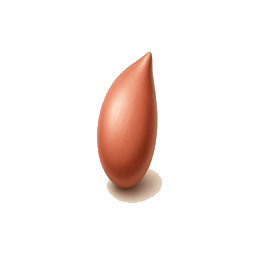
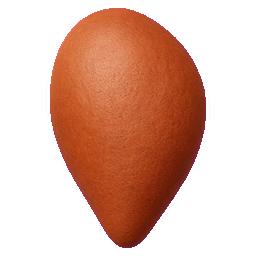
Fold Design WF T1–T3 alphas and lock HUD to one line.
Take chroma-keyed Seed/Sprout/Bud from cursor/wf-seed-alpha-recut
and punch leftover magenta so Sprout is not a hot-pink plate. Remove
drag LastFeedback entirely (no Moved. toast). Restore Charges 30/30
as a wide one-line label in the dock–board gap; keep 100/100 on the
energy bar with Overflow.

diff --git a/Assets/Grove/Unity/DragMergeController.cs b/Assets/Grove/Unity/DragMergeController.cs
@@ -25,7 +25,6 @@ namespace Grove.Unity
         public bool IsDragging => _dragging;
         public bool IsBusy => _busy;
         public DragResult? LastResult { get; private set; }
-        public string LastFeedback { get; private set; } = "";
 
         public void Bind(MergeSession session, BoardView view)
         {
@@ -96,7 +95,6 @@ namespace Grove.Unity
             View.HiddenCell = cell;
             View.Refresh();
             View.ShowGhost(stack, world);
-            LastFeedback = "";
         }
 
         private IEnumerator EndDrag()
@@ -111,9 +109,8 @@ namespace Grove.Unity
                 : new DragResult.SnapBack("out-of-bounds");
             LastResult = result;
 
-            if (result is DragResult.SnapBack snap)
+            if (result is DragResult.SnapBack)
             {
-                LastFeedback = SnapMessage(snap.Reason);
                 var fromWorld = PointerWorld();
                 var dest = View.CellToWorld(_from);
                 var t = 0f;
@@ -126,7 +123,7 @@ namespace Grove.Unity
                     yield return null;
                 }
             }
-            else if (result is DragResult.Applied applied)
+            else if (result is DragResult.Applied)
             {
                 var dest = View.CellToWorld(hasCell ? to : _from);
                 var fromWorld = PointerWorld();
@@ -139,9 +136,6 @@ namespace Grove.Unity
                     yield return null;
                 }
 
-                LastFeedback = applied.Merge is { } merge
-                    ? $"Merged {merge.Consumed} → {merge.Produced}!"
-                    : "";
             }
 
             View.HideGhost();
@@ -154,17 +148,6 @@ namespace Grove.Unity
 
             _busy = false;
         }
-
-        private static string SnapMessage(string reason) => reason switch
-        {
-            "type-mismatch" => "Snap back — those pieces don't match.",
-            "no-recipe" => "Snap back — this tier doesn't merge further.",
-            "overstack" => "Snap back — too many on that cell.",
-            "same-cell" => "Snap back — drop on another cell.",
-            "empty-source" => "Snap back — nothing to drag.",
-            "out-of-bounds" => "Snap back — drop on the board.",
-            _ => "Snap back — " + reason
-        };
 
         private Vector3 PointerWorld()
         {

diff --git a/tests/Grove.Domain.Tests/PlayLayoutTests.cs b/tests/Grove.Domain.Tests/PlayLayoutTests.cs
@@ -91,23 +91,23 @@ public sealed class PlayLayoutTests
     }
 
     [Fact]
-    public void Energy_readout_fits_100_100_on_one_line_at_1080_and_crate_charges_are_off_play()
+    public void Energy_and_charges_readouts_fit_one_line_at_1080()
     {
         var energyW = (PlayLayout.EnergyLabel.XMax - PlayLayout.EnergyLabel.XMin) * PlayLayout.ReferenceWidth;
-        Assert.True(energyW >= 220f, energyW.ToString("0.0"));
+        var crateW = (PlayLayout.CrateLabel.XMax - PlayLayout.CrateLabel.XMin) * PlayLayout.ReferenceWidth;
+        Assert.True(energyW >= PlayLayout.HudNumberMinWidthPx, energyW.ToString("0.0"));
+        Assert.True(crateW >= PlayLayout.CrateChargesMinWidthPx, crateW.ToString("0.0"));
         Assert.True(PlayLayout.EnergyLabel.XMin >= PlayLayout.EnergyBar.XMin - 0.0001f);
         Assert.True(PlayLayout.EnergyLabel.XMax <= PlayLayout.EnergyBar.XMax + 0.0001f);
         Assert.True(PlayLayout.EnergyLabel.XMax <= PlayLayout.CoinIcon.XMin + 0.0001f);
         Assert.False(PlayLayout.EnergyLabel.Overlaps(PlayLayout.CoinIcon));
         Assert.True(PlayLayout.EnergyLabel.XMax < 0.50f);
-        foreach (var rect in PlayLayout.OccludingHud())
-        {
-            Assert.False(
-                Math.Abs(rect.XMin - PlayLayout.CrateLabel.XMin) < 0.0001f
-                && Math.Abs(rect.YMin - PlayLayout.CrateLabel.YMin) < 0.0001f
-                && Math.Abs(rect.XMax - PlayLayout.CrateLabel.XMax) < 0.0001f
-                && Math.Abs(rect.YMax - PlayLayout.CrateLabel.YMax) < 0.0001f);
-        }
+        Assert.False(PlayLayout.CrateLabel.OverlapsPlayfield());
+        Assert.True(PlayLayout.MeetsMinHudGap(PlayLayout.CrateLabel));
+        Assert.False(PlayLayout.CrateLabel.Overlaps(PlayLayout.OrderTray));
+        Assert.Contains(PlayLayout.OccludingHud(), r =>
+            Math.Abs(r.XMin - PlayLayout.CrateLabel.XMin) < 0.0001f
+            && Math.Abs(r.YMin - PlayLayout.CrateLabel.YMin) < 0.0001f);
     }
 
     [Fact]

diff --git a/tests/Grove.Domain.Tests/ArtManifestTests.cs b/tests/Grove.Domain.Tests/ArtManifestTests.cs
@@ -49,11 +49,11 @@ public sealed class ArtManifestTests
     {
         var manifest = ArtManifest.LoadDefault();
         var dir = ArtManifest.ResolveDirectory();
-        // 9e84a1a refresh: Seed ~41KB (old stub ~2.8KB), Maya Happy ~348KB (old ~5KB).
+        // Seed/Bud stay large. T2 after chroma-key punch is a thin silhouette (~7KB), not the old 2.8KB stub.
         var minBytes = new Dictionary<string, long>(StringComparer.Ordinal)
         {
             ["WF_T01_Seed"] = 20000,
-            ["WF_T02_Sprout"] = 20000,
+            ["WF_T02_Sprout"] = 5000,
             ["WF_T03_Bud"] = 20000,
             ["WF_T04_Wildflower"] = 20000,
             ["WF_T05_Bouquet"] = 20000,
@@ -155,12 +155,23 @@ public sealed class ArtManifestTests
                 }
             }
 
-            Assert.True(opaque > width * height / 40, stub + " punched the object away");
+            Assert.True(opaque > width * height / 80, stub + " punched the object away");
             if (asset.Category == "piece")
             {
                 Assert.True(opaque < width * height / 2, stub + " is still a filled cream plate");
                 Assert.True(StudioPlatePunch.TryOpaqueRect(rgba, width, height, 16, 0, out _, out _, out var rw, out var rh), stub);
                 Assert.True(rw * rh < width * height * 3 / 4, stub + " opaque bounds still fill the canvas plate");
+                var magenta = 0;
+                for (var i = 0; i < width * height; i++)
+                {
+                    if (rgba[i * 4 + 3] >= 8
+                        && StudioPlatePunch.IsMagentaKey(rgba[i * 4], rgba[i * 4 + 1], rgba[i * 4 + 2]))
+                    {
+                        magenta++;
+                    }
+                }
+
+                Assert.True(magenta < width * height / 200, stub + " still has a magenta chroma plate (" + magenta + " px)");
             }
         }
     }

diff --git a/Assets/Grove/Runtime/Layout/PlayLayout.cs b/Assets/Grove/Runtime/Layout/PlayLayout.cs
@@ -85,6 +85,9 @@ namespace Grove.Domain.Layout
         public const int TypeTeach = 30;
         public const int TypeTeachRing = 24;
         public const int TypeCrate = 28;
+        /// <summary>"Charges 30/30" at TypeCrate Bold needs ~240px @1080 to stay one line.</summary>
+        public const float HudNumberMinWidthPx = 220f;
+        public const float CrateChargesMinWidthPx = 240f;
         public const int TypeSplash = 36;
         public const int TypeToast = 28;
         public const int TypeCoin = 34;
@@ -148,8 +151,11 @@ namespace Grove.Domain.Layout
         public static readonly NormRect Store = new NormRect(0.04f, 0.012f, 0.20f, 0.108f);
 
         public static readonly NormRect Crate = new NormRect(0.025f, 0.48f, 0.165f, 0.655f);
-        /// <summary>Unused on Play — charge copy wrapped mid-word in this sliver.</summary>
-        public static readonly NormRect CrateLabel = new NormRect(0.025f, 0.658f, 0.165f, 0.715f);
+        /// <summary>
+        /// One-line "Charges 30/30" in the dock–board gap (left). Wider than the crate
+        /// sliver so TypeCrate cannot wrap mid-word as "Charge / s".
+        /// </summary>
+        public static readonly NormRect CrateLabel = new NormRect(0.02f, 0.304f, 0.30f, 0.356f);
 
         public static readonly NormRect TeachCrateRing = Crate.Inflate(0.008f, 0.008f);
         /// <summary>Teach banner between dock and board. Overlay — not in <see cref="OccludingHud"/>.</summary>
@@ -194,7 +200,7 @@ namespace Grove.Domain.Layout
             new[]
             {
                 Goal, EnergyPill, EnergyBar, EnergyLabel, CoinIcon, CoinLabel, Toast,
-                DockPlate, Maya, MayaBubble, OrderTray, InventoryBar, Crate, Store
+                DockPlate, Maya, MayaBubble, OrderTray, InventoryBar, Crate, CrateLabel, Store
             };
 
         public static bool MeetsMinHudGap(NormRect chrome)

diff --git a/Assets/Grove/Runtime/Art/StudioPlatePunch.cs b/Assets/Grove/Runtime/Art/StudioPlatePunch.cs
@@ -171,8 +171,9 @@ namespace Grove.Domain.Art
 
             if (CornersTransparent(rgba, width, height))
             {
+                var leftover = PunchMagentaKey(rgba, width, height);
                 ClearTransparentRgb(rgba, width, height);
-                return 0;
+                return leftover;
             }
 
             var plates = CornerPlates(rgba, width, height);
@@ -218,7 +219,42 @@ namespace Grove.Domain.Art
                 punched += PunchCreamHalo(rgba, width, height);
             }
 
+            punched += PunchMagentaKey(rgba, width, height);
             ClearTransparentRgb(rgba, width, height);
+            return punched;
+        }
+
+        /// <summary>
+        /// Design chroma-key leftovers: hot magenta islands that survive a corner punch.
+        /// Does not match orange seeds or pink buds.
+        /// </summary>
+        public static bool IsMagentaKey(byte r, byte g, byte b) =>
+            r >= 160 && b >= 110 && g <= 90 && r >= g + 50 && b >= g + 30;
+
+        public static int PunchMagentaKey(byte[] rgba, int width, int height)
+        {
+            if (!Valid(rgba, width, height))
+            {
+                return 0;
+            }
+
+            var punched = 0;
+            var n = width * height;
+            for (var i = 0; i < n; i++)
+            {
+                var o = i * 4;
+                if (rgba[o + 3] < 8 || !IsMagentaKey(rgba[o], rgba[o + 1], rgba[o + 2]))
+                {
+                    continue;
+                }
+
+                rgba[o] = 0;
+                rgba[o + 1] = 0;
+                rgba[o + 2] = 0;
+                rgba[o + 3] = 0;
+                punched++;
+            }
+
             return punched;
         }
 

diff --git a/Assets/Grove/Unity/PrototypeHud.cs b/Assets/Grove/Unity/PrototypeHud.cs
@@ -22,6 +22,7 @@ namespace Grove.Unity
     {
         private Text _energyText = null!;
         private Text _coinText = null!;
+        private Text _crateText = null!;
         private Text _toastText = null!;
         private Text _goalText = null!;
         private Button _crateButton = null!;
@@ -191,6 +192,16 @@ namespace Grove.Unity
             Place(_crateButton.GetComponent<RectTransform>(), PlayLayout.Crate);
             _crateImage = _crateButton.targetGraphic as Image ?? _crateButton.GetComponent<Image>();
             _crateButton.onClick.AddListener(OnCrate);
+            _crateText = GroveVisuals.UiText(
+                root,
+                "CrateCharges",
+                "Charges 30/30",
+                PlayLayout.TypeCrate,
+                TextAnchor.MiddleCenter,
+                Color.white,
+                contrastOnDark: true,
+                oneLine: true);
+            Place(_crateText.rectTransform, PlayLayout.CrateLabel);
 
             var store = GroveVisuals.UiButton(
                 root,
@@ -275,6 +286,11 @@ namespace Grove.Unity
             if (Host.Crate != null)
             {
                 var charges = Host.Crate.Charges(Host.Clock);
+                if (_crateText != null)
+                {
+                    _crateText.text = $"Charges {charges}/{Host.Crate.MaxCharges}";
+                }
+
                 var energyOk = Host.Crate.FtueFreeTapRemaining || Host.Energy == null || !Host.Energy.IsEmpty;
                 _crateButton.interactable = !SplashBlocking && charges > 0 && energyOk;
                 var crateSprite = GroveArt.PlayCrateSprite(charges > 0);

diff --git a/tests/Grove.Domain.Tests/StudioPlatePunchTests.cs b/tests/Grove.Domain.Tests/StudioPlatePunchTests.cs
@@ -101,4 +101,50 @@ public sealed class StudioPlatePunchTests
         Assert.Equal(196, rgba[center]);
         Assert.Equal(255, rgba[center + 3]);
     }
+
+    [Fact]
+    public void Magenta_chroma_island_punches_and_keeps_a_green_sprout()
+    {
+        const int w = 32;
+        const int h = 32;
+        var rgba = new byte[w * h * 4];
+        for (var y = 0; y < h; y++)
+        {
+            for (var x = 0; x < w; x++)
+            {
+                var i = (y * w + x) * 4;
+                if (x < 2 || y < 2 || x >= w - 2 || y >= h - 2)
+                {
+                    rgba[i + 3] = 0;
+                    continue;
+                }
+
+                rgba[i] = 230;
+                rgba[i + 1] = 16;
+                rgba[i + 2] = 160;
+                rgba[i + 3] = 255;
+            }
+        }
+
+        for (var y = 12; y < 20; y++)
+        {
+            for (var x = 14; x < 18; x++)
+            {
+                var i = (y * w + x) * 4;
+                rgba[i] = 80;
+                rgba[i + 1] = 170;
+                rgba[i + 2] = 40;
+                rgba[i + 3] = 255;
+            }
+        }
+
+        var punched = StudioPlatePunch.Punch(rgba, w, h);
+        Assert.True(punched > 100);
+        Assert.True(StudioPlatePunch.CornersTransparent(rgba, w, h));
+        var center = ((h / 2) * w + w / 2) * 4;
+        Assert.True(rgba[center + 3] > 200);
+        Assert.Equal(80, rgba[center]);
+        Assert.False(StudioPlatePunch.IsMagentaKey(196, 90, 60));
+        Assert.True(StudioPlatePunch.IsMagentaKey(230, 16, 160));
+    }
 }
